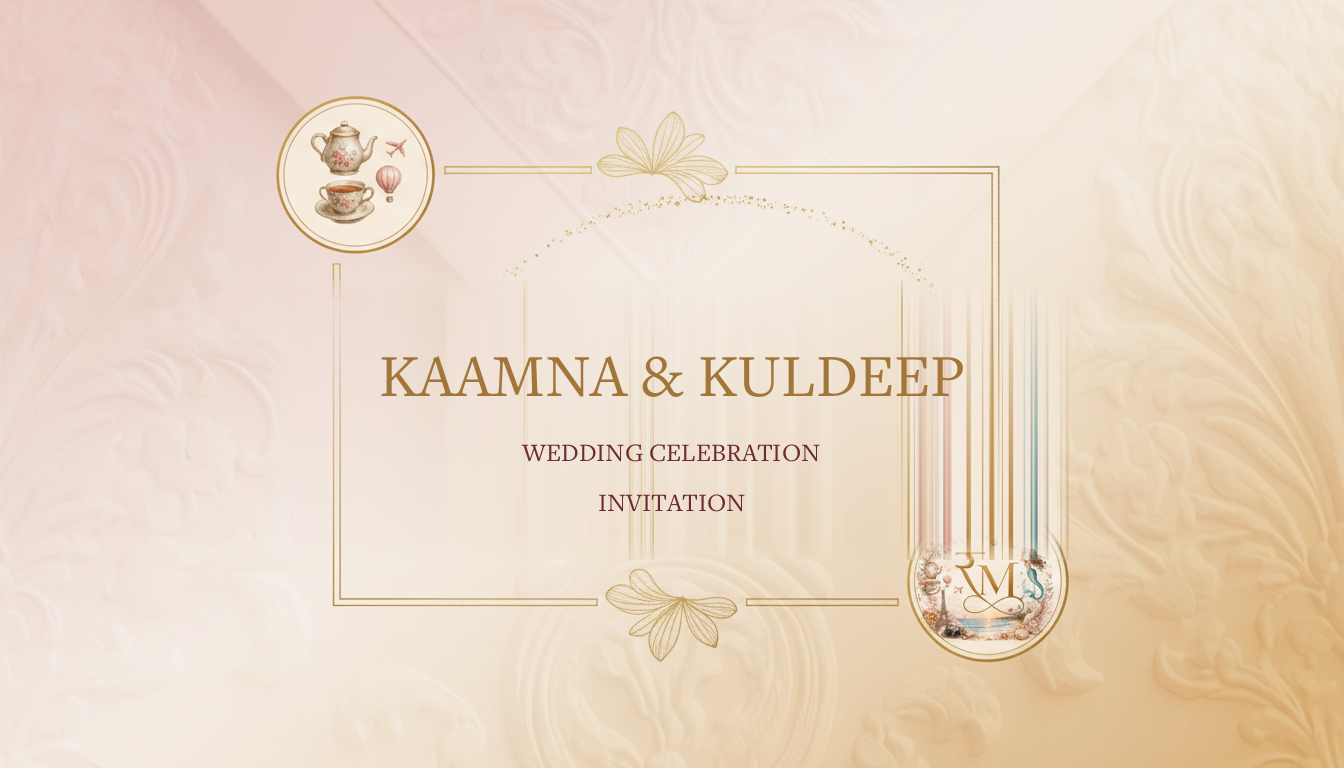
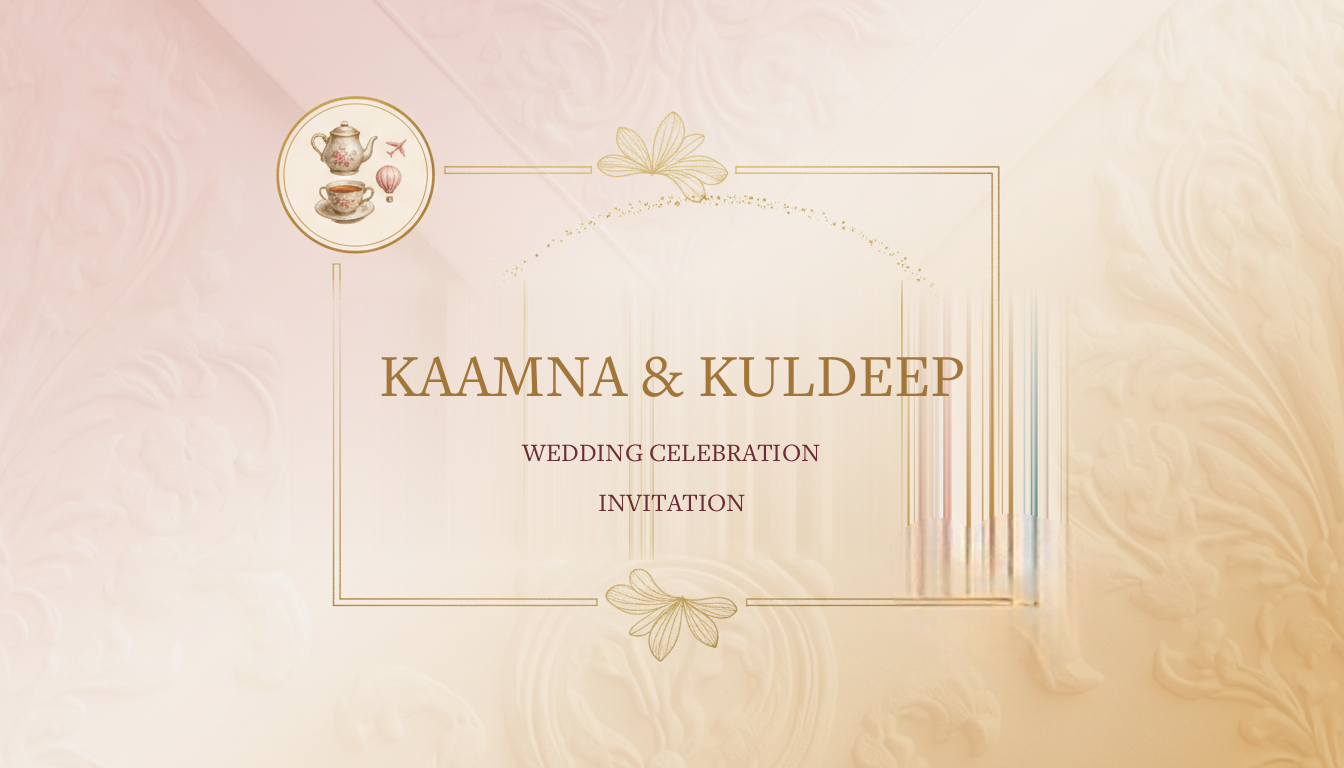
feat: update social preview og-image assets

Changed region(s): [[0.6562, 0.6562, 0.8125, 0.875]]

diff --git a/index.html b/index.html
@@ -10,12 +10,12 @@
     <meta property="og:type" content="website" />
     <meta property="og:title" content="Kaamna &amp; Kuldeep - Wedding Invitation" />
     <meta property="og:description" content="Join us in celebrating the wedding of Kaamna &amp; Kuldeep." />
-    <meta property="og:image" content="./assets/og-image-Bp_8DCHR.png" />
+    <meta property="og:image" content="./assets/og-image-Rbfw3x3q.png" />
 
     <meta name="twitter:card" content="summary_large_image" />
     <meta name="twitter:title" content="Kaamna &amp; Kuldeep - Wedding Invitation" />
     <meta name="twitter:description" content="Join us in celebrating the wedding of Kaamna &amp; Kuldeep." />
-    <meta name="twitter:image" content="./assets/og-image-Bp_8DCHR.png" />
+    <meta name="twitter:image" content="./assets/og-image-Rbfw3x3q.png" />
     <link rel="preconnect" href="https://fonts.googleapis.com" />
     <link rel="preconnect" href="https://fonts.gstatic.com" crossorigin />
     <link href="https://fonts.googleapis.com/css2?family=Cinzel:wght@400;500;600;700&family=Cormorant+Garamond:ital,wght@0,400;0,500;0,600;0,700;1,400;1,600&family=Great+Vibes&family=Noto+Serif+Devanagari:wght@400;500;600;700&family=Yatra+One&display=swap" rel="stylesheet" />
